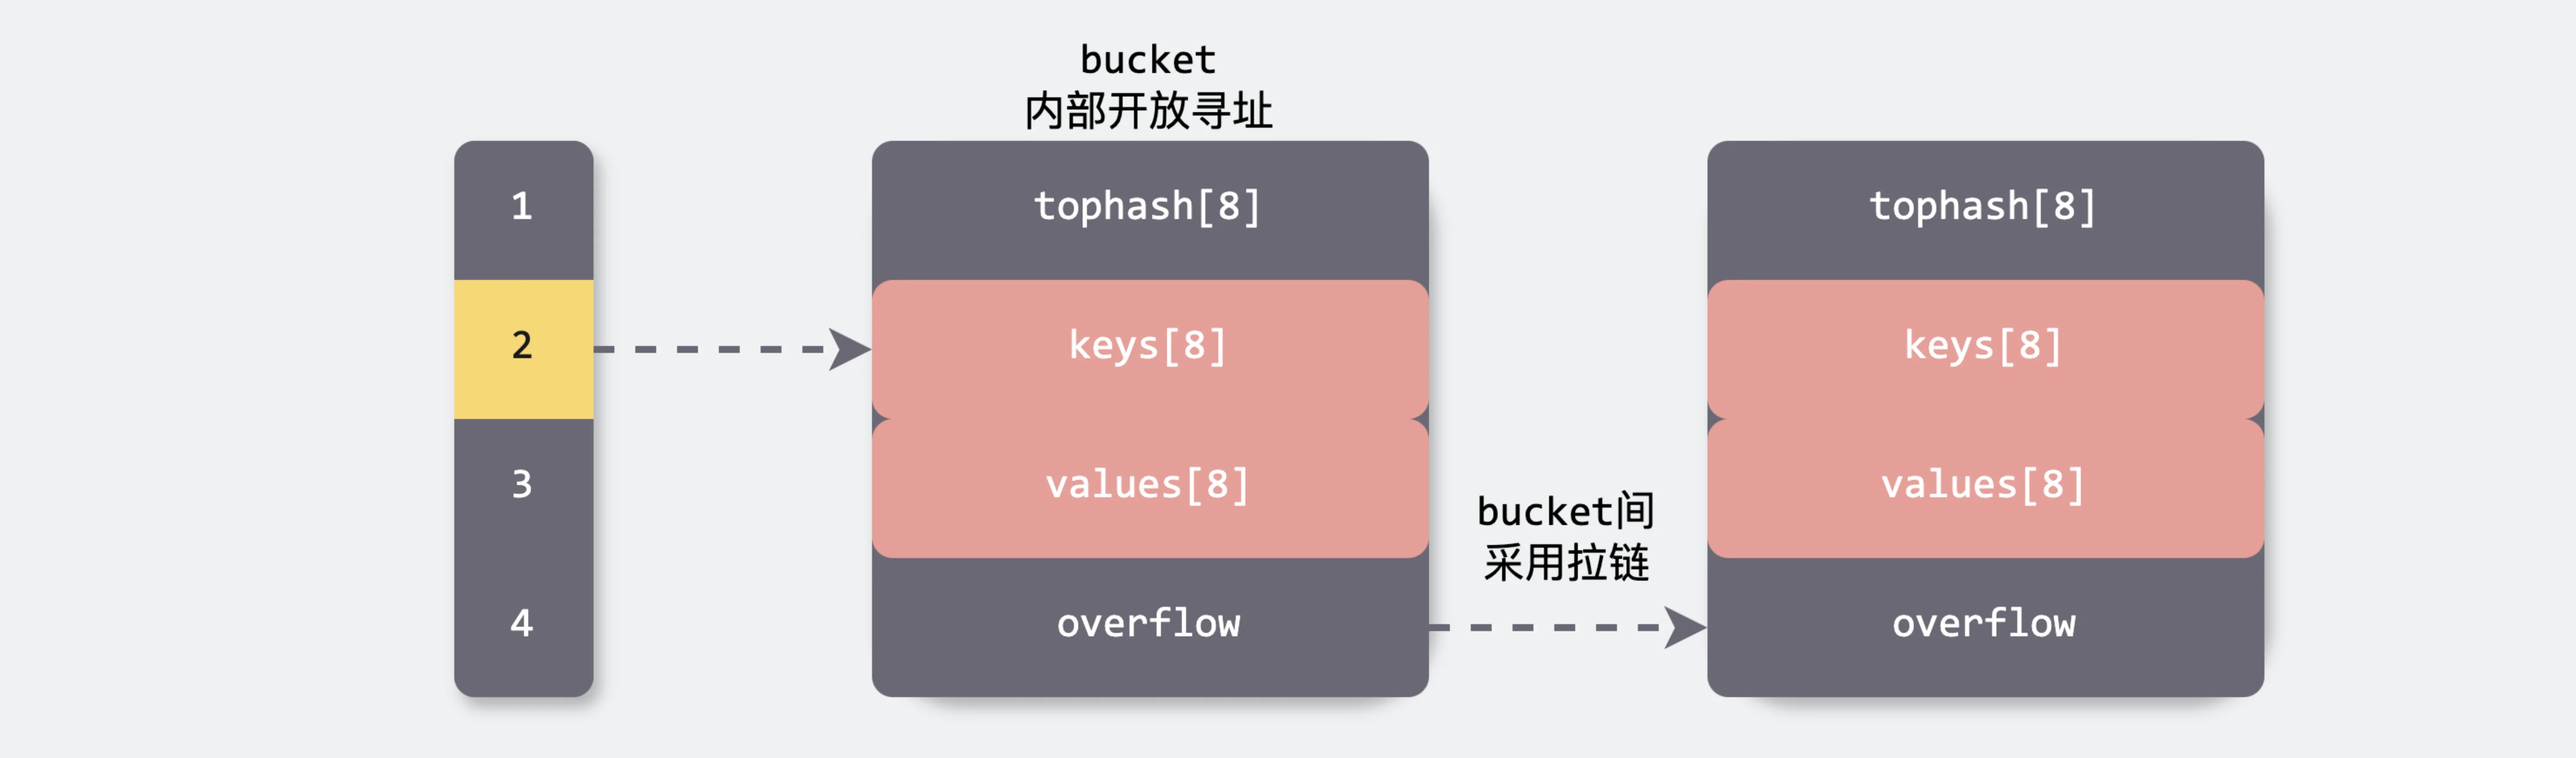
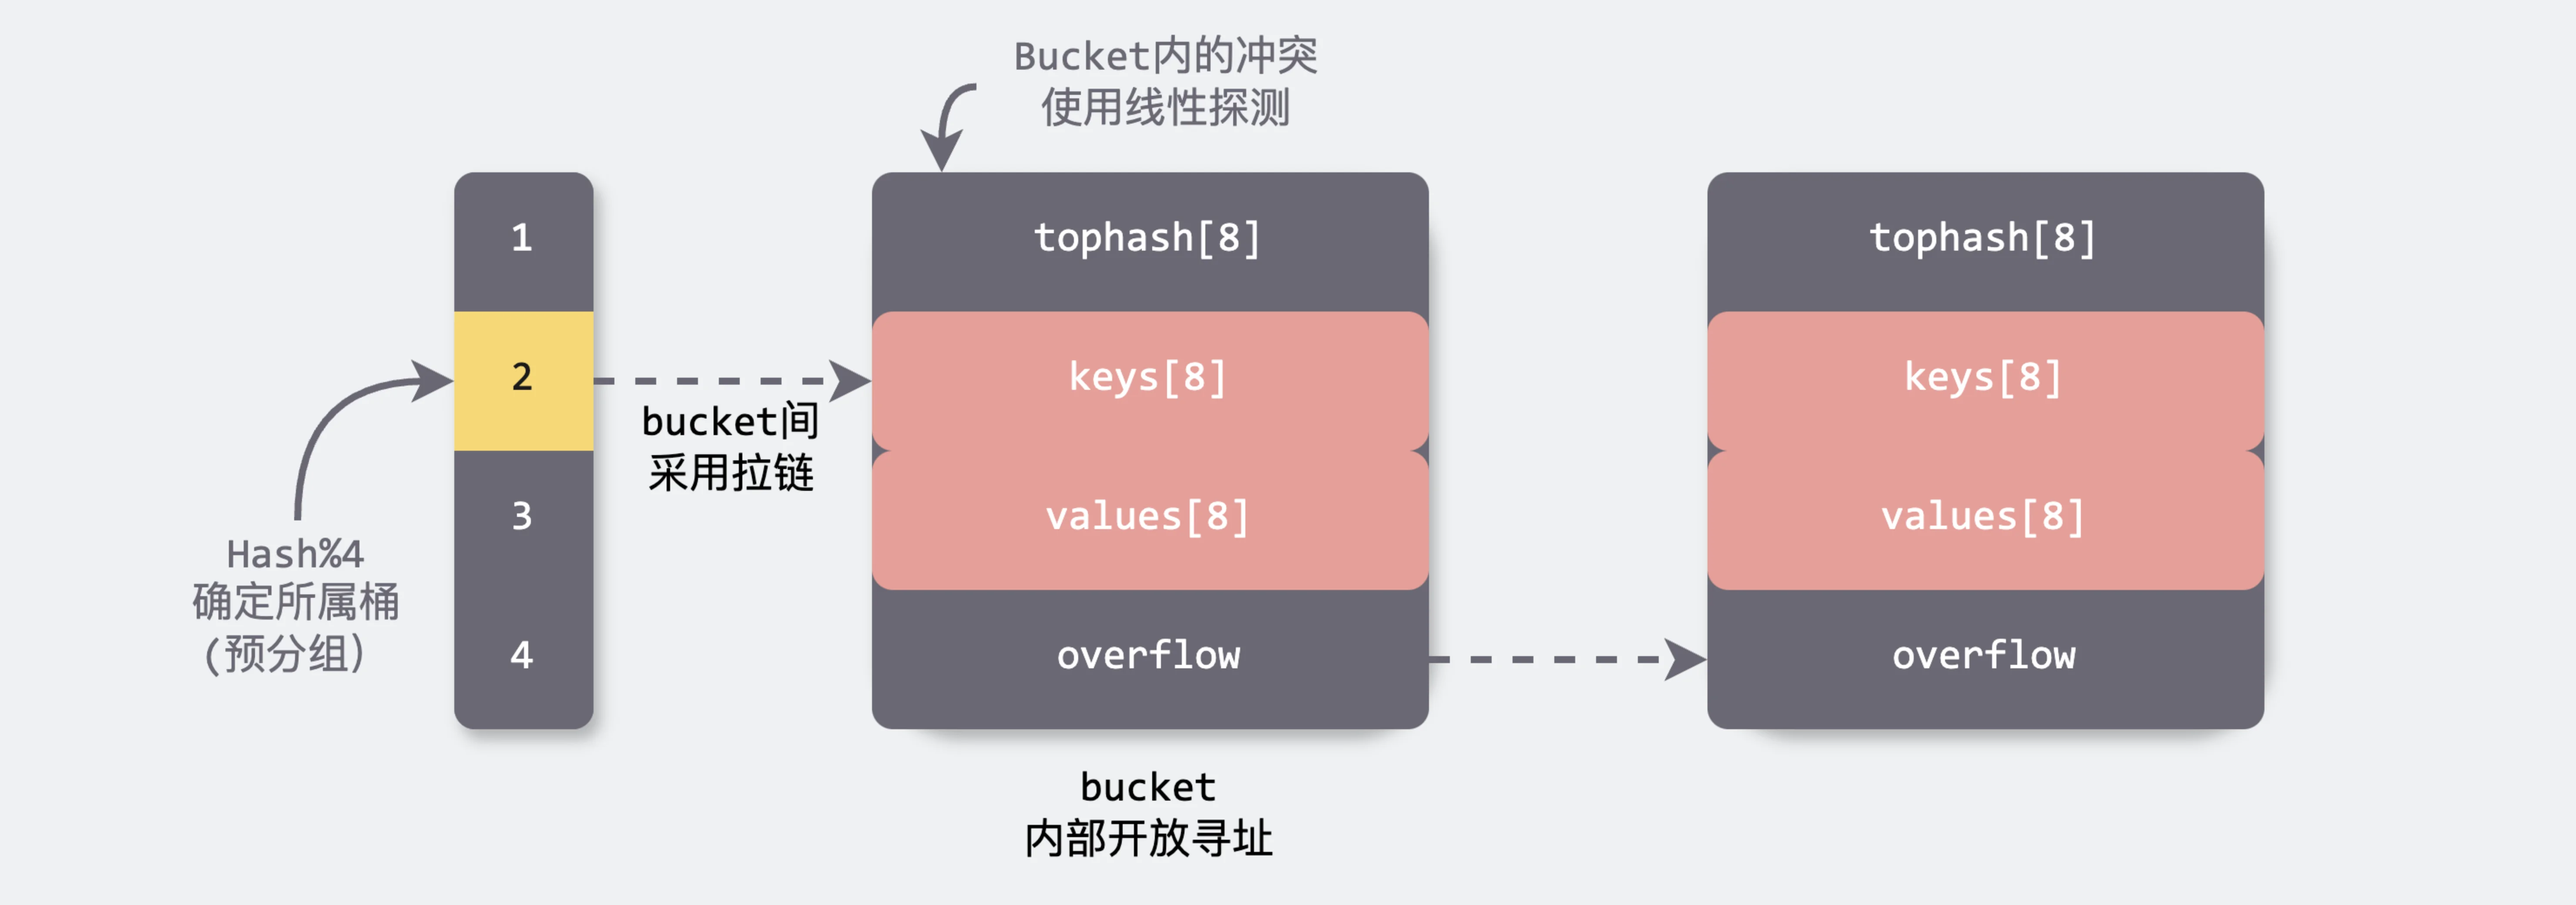
文章小修，更新哈希冲突部分内容

diff --git a/_posts/2024-09-12-go-map-basics-memory-model.md b/_posts/2024-09-12-go-map-basics-memory-model.md
@@ -22,20 +22,22 @@ tags:
 
 * 拉链法
 
-  拉链法是一种通过在每个散列槽位维护一个链表来处理哈希冲突的散列表方法，它将所有散列到同一位置的元素链接起来，从而允许多个元素共享同一个槽位
+  拉链法是一种通过在每个散列槽位维护一个链表来处理哈希冲突的散列表方法，它将所有散列到同一位置的元素链接起来，从而允许多个元素共享同一个槽位。拉链法不要求连续的内存空间，但代价是解决冲突时，链表访问效率较低，并且需要额外的空间存储 next 指针
 * 开放寻址法
 
-  开放寻址法则是将所有元素存储在散列表的连续位置中，当发生冲突时，通过线性探测或其他策略寻找下一个空闲位置，这种方法在空间利用上更为紧凑，但可能需要处理更复杂的冲突解决策略
+  开放寻址法则是将所有元素存储在散列表的连续位置中，当发生冲突时，通过线性探测或其他策略寻找下一个空闲位置，这种方法在空间利用上更为紧凑，但可能需要处理更复杂的冲突解决策略。利用空间局部性原理，在发生冲突时的寻址效率高，但要求连续的空间存储数据。
 
 ![拉链法与开放寻址法](/img/in-posts/2024-09-12-go-map-basics-memory-model/8.webp)
 *拉链法与开放寻址法*
 
-Go 的 `map` 实现结合了开放寻址法（open addressing）和拉链法（separate chaining）两种经典的哈希表冲突解决策略，以在不同场景下实现最佳的性能和空间效率。具体来说，Go 的 `map` 主要采用了开放寻址法来处理哈希冲突，这种方法通过在哈希表内部寻找下一个可用的槽位来存储冲突的键值对，从而避免了额外的内存开销和指针操作。
+Go 的 `map` 实现结合了开放寻址法（open addressing）和拉链法（separate chaining）两种经典的哈希表冲突解决策略，以在不同场景下实现最佳的性能和空间效率。
 
-然而，当哈希表需要扩容时，开放寻址法的效率可能会受到影响，因为扩容过程中需要重新计算所有键的哈希值并重新分配槽位。为了优化这一过程，Go 的 `map` 实现引入了拉链法作为辅助策略。在扩容时，Go 会将部分冲突的键值对存储在链表中，而不是立即重新分配槽位。这种混合策略不仅减少了扩容时的计算开销，还避免了因频繁扩容而导致的性能波动。
+![开放寻址法解决hash冲突](/img/in-posts/2024-09-12-go-map-basics-memory-model/6.webp)
+*开放寻址法解决hash冲突*
 
-![结合开放寻址和拉链法](/img/in-posts/2024-09-12-go-map-basics-memory-model/6.webp)
-*结合开放寻址和拉链法*
+具体来说，Go 的 `map` 主要采用了开放寻址法来处理哈希冲突，这种方法通过在哈希表内部（bucket 内部）寻找下一个可用的槽位来存储冲突的键值对，从而避免了额外的内存开销和指针操作。
+
+然而，当哈希表需要扩容时，开放寻址法的效率可能会受到影响，因为扩容过程中需要重新计算所有键的哈希值并重新分配槽位。为了优化这一过程，Go 的 `map` 实现引入了拉链法作为辅助策略。在扩容时，Go 会将部分冲突的键值对存储在链表中，而不是立即重新分配槽位。这种混合策略不仅减少了扩容时的计算开销，还避免了因频繁扩容而导致的性能波动。
 
 # Map 内存模型
 
